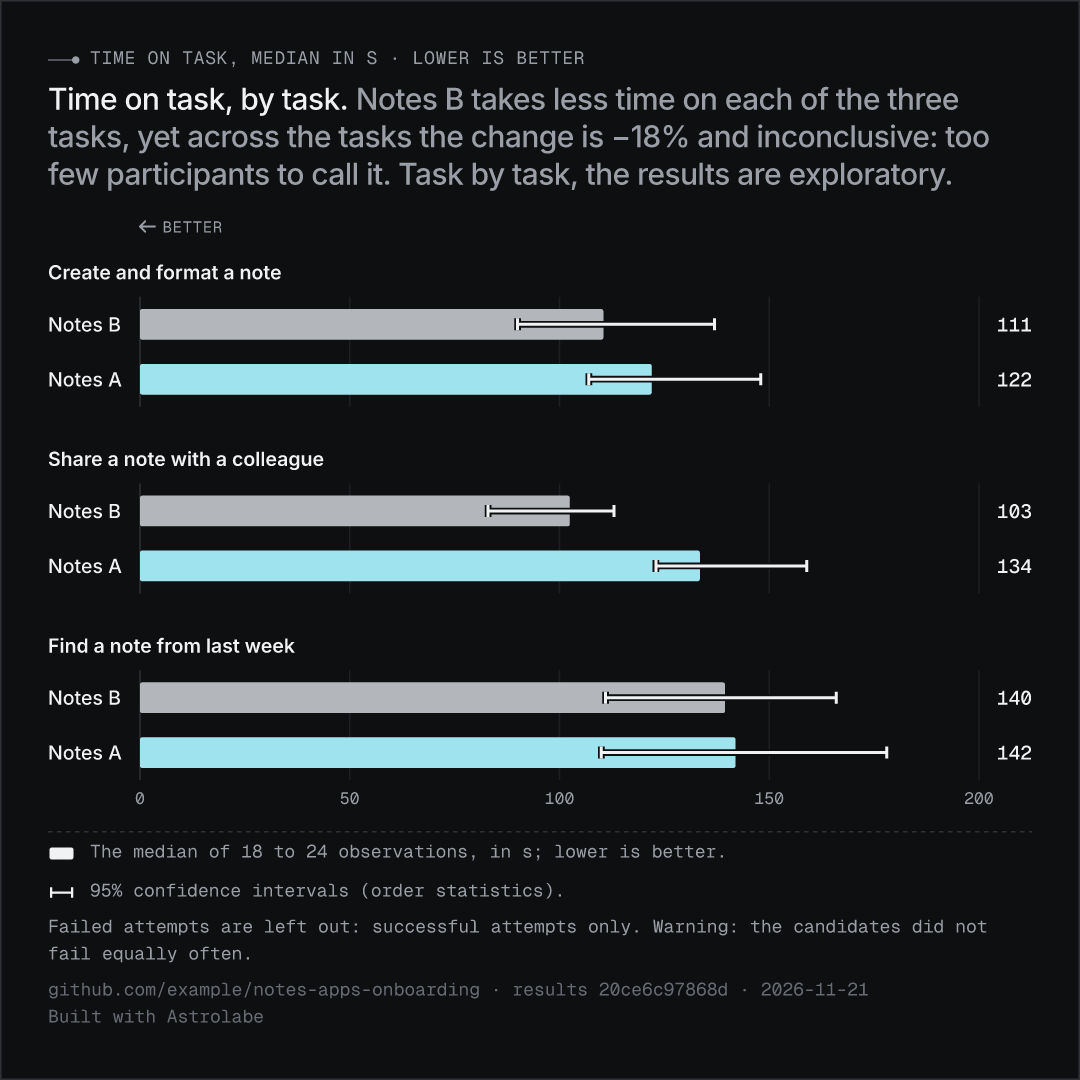
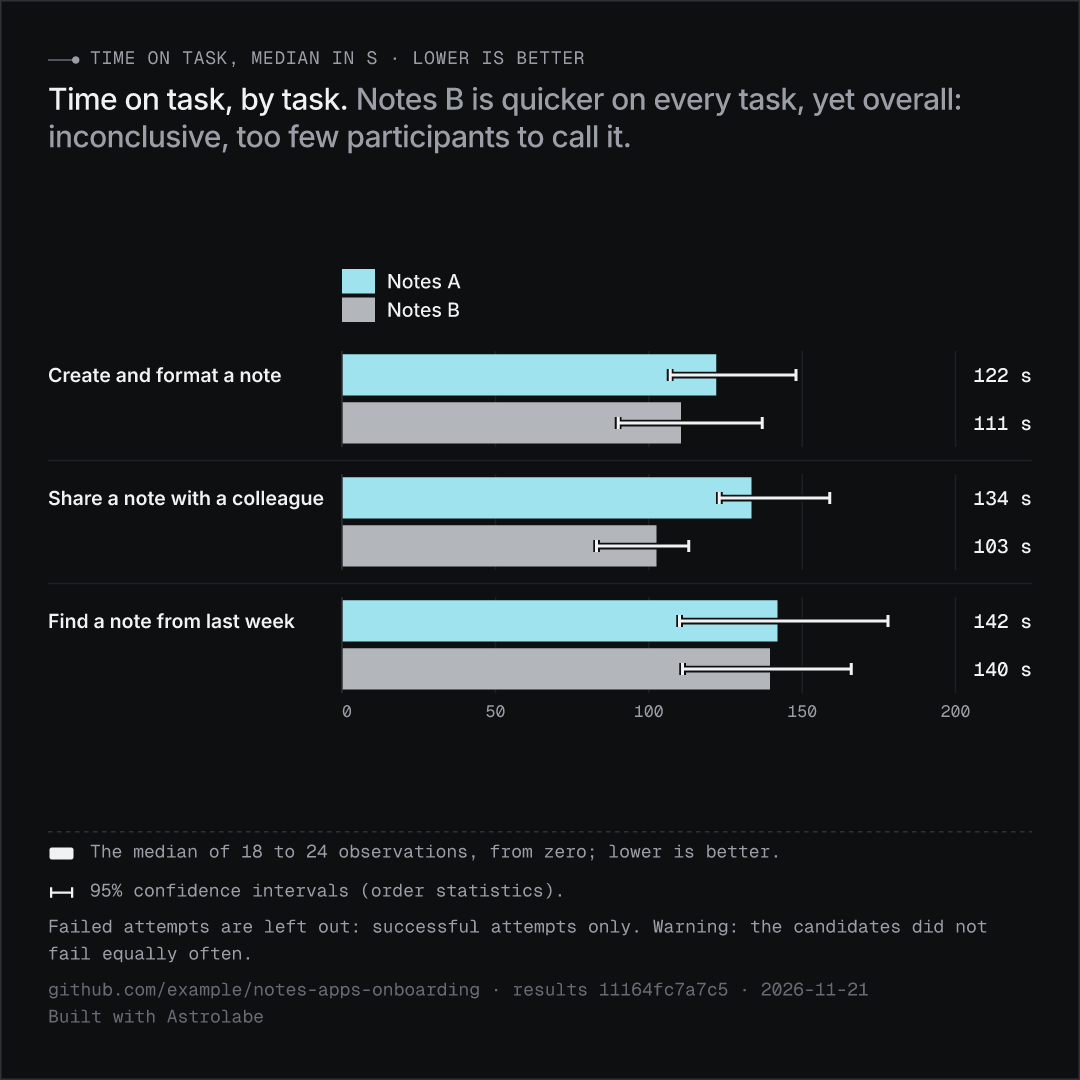
Make the effects table and summary keys read by part
The effects table now stacks one table per metric, showing only the parts each metric measured. Summary keys that differ only by part count now print once. Chart bars get a taller pitch, and the key stubs stay thin.

diff --git a/src/render/site/blocks.ts b/src/render/site/blocks.ts
@@ -1,5 +1,5 @@
 import type { RawFile } from "../../compute/raw-data.js";
-import type { Benchmark, Comparison } from "../../schema/benchmark.js";
+import type { Benchmark, Comparison, Metric, Results } from "../../schema/benchmark.js";
 import type { Block, ChartBlock, HeadlineBlock, SummaryBlock, TableBlock } from "../../schema/presentation.js";
 import type { Mode } from "../../themes/astrolabe.js";
 import { addsInformation, detailsOf, isFirmVerdict, measuredOf, pairOf } from "../card.js";
@@ -630,44 +630,54 @@ function effectsTableView(block: TableBlock, inputs: PageInputs, state: FilterSt
       ...nodes.flatMap((node) => compared.map((candidate) => Math.abs(comparisonOf(metricId, node, candidate.id)?.effect ?? 0))),
       Number.EPSILON,
     );
-  const several = block.metrics.length > 1;
-  const metricHeader = block.metrics.map((metricId) => {
+  const cellOf = (metric: Metric, node: string | undefined, candidate: Results["candidates"][number], largest: number) => {
+    const comparison = comparisonOf(metric.id, node, candidate.id);
+
+    if (!comparison) return `<td data-candidate="${escapeHtml(candidate.id)}">—</td>`;
+
+    const { effect, interval } = effectAndInterval(metric, comparison);
+    const share = (Math.abs(comparison.effect) / largest) * 50;
+    const start = comparison.effect < 0 ? 50 - share : 50;
+    const exploratory = comparison.role === "exploratory" ? " (exploratory)" : "";
+
+    return [
+      `<td class="effect-cell ${toneOf(comparison)}${isFirmVerdict(comparison) ? " firm" : ""}" data-candidate="${escapeHtml(candidate.id)}">`,
+      '<span class="cell-line">',
+      `<span class="cell-value">${escapeHtml(effect)}</span>`,
+      `<span class="effect-bar" aria-hidden="true"><i style="left: ${start.toFixed(1)}%; width: ${share.toFixed(1)}%"></i></span>`,
+      "</span>",
+      `<span class="cell-detail effect-verdict">${escapeHtml(plainVerdictOf(metric, comparison) + exploratory)}</span>`,
+      show.has("ci") && interval ? `<span class="cell-detail dim">${escapeHtml(interval)}</span>` : "",
+      "</td>",
+    ].join("");
+  };
+  const rowsLevel = effectRowsOf(block, lookup);
+  const levelName = rowsLevel ? capitalised(rowsLevel) : "";
+  const againstName = lookup.candidateName.get(vs);
+  // One table per metric, stacked as the values tables are: side by side, three metrics and two candidates would need
+  // six columns, and a metric measured on a few parts would fill the others with dashes.
+  const sections = block.metrics.flatMap((metricId) => {
     const metric = lookup.metricById.get(metricId)!;
+    const measuredNodes = nodes.filter((node) => compared.some((candidate) => comparisonOf(metricId, node, candidate.id)));
+    const comparedHere = compared.filter((candidate) => measuredNodes.some((node) => comparisonOf(metricId, node, candidate.id)));
 
-    return `<th scope="colgroup" colspan="${compared.length}">${escapeHtml(`${metric.label} · ${directionWords(metric.direction)}`)}</th>`;
-  });
-  const candidateHeader = block.metrics.flatMap(() =>
-    compared.map((candidate) => `<th scope="col" data-candidate="${escapeHtml(candidate.id)}">${escapeHtml(candidate.name)}</th>`),
-  );
-  const rows = nodes.map((node) => {
-    const cells = block.metrics.flatMap((metricId) => {
-      const metric = lookup.metricById.get(metricId)!;
-      const largest = largestOf(metricId);
+    if (measuredNodes.length === 0) return [];
 
-      return compared.map((candidate) => {
-        const comparison = comparisonOf(metricId, node, candidate.id);
+    const largest = largestOf(metricId);
+    const rows = measuredNodes.map(
+      (node) =>
+        `<tr><th scope="row">${node === undefined ? "All" : partNameHtml(inputs, node)}</th>${comparedHere.map((candidate) => cellOf(metric, node, candidate, largest)).join("")}</tr>`,
+    );
+    const subtitle = `change against ${againstName} · ${directionWords(metric.direction)}`;
 
-        if (!comparison) return `<td data-candidate="${escapeHtml(candidate.id)}">—</td>`;
-
-        const { effect, interval } = effectAndInterval(metric, comparison);
-        const share = (Math.abs(comparison.effect) / largest) * 50;
-        const start = comparison.effect < 0 ? 50 - share : 50;
-        const exploratory = comparison.role === "exploratory" ? " (exploratory)" : "";
-
-        return [
-          `<td class="effect-cell ${toneOf(comparison)}${isFirmVerdict(comparison) ? " firm" : ""}" data-candidate="${escapeHtml(candidate.id)}">`,
-          '<span class="cell-line">',
-          `<span class="cell-value">${escapeHtml(effect)}</span>`,
-          `<span class="effect-bar" aria-hidden="true"><i style="left: ${start.toFixed(1)}%; width: ${share.toFixed(1)}%"></i></span>`,
-          "</span>",
-          `<span class="cell-detail effect-verdict">${escapeHtml(plainVerdictOf(metric, comparison) + exploratory)}</span>`,
-          show.has("ci") && interval ? `<span class="cell-detail dim">${escapeHtml(interval)}</span>` : "",
-          "</td>",
-        ].join("");
-      });
-    });
-
-    return `<tr><th scope="row">${node === undefined ? "All" : partNameHtml(inputs, node)}</th>${cells.join("")}</tr>`;
+    return [
+      `<h3 class="table-heading">${escapeHtml(metric.label)} <span class="dim">· ${escapeHtml(subtitle)}</span></h3>`,
+      '<div class="table-scroll"><table class="value-table effects-table">',
+      `<caption class="visually-hidden">${escapeHtml(`${metric.label} · ${subtitle}`)}</caption>`,
+      `<thead><tr><th scope="col">${escapeHtml(levelName)}</th>${comparedHere.map((candidate) => `<th scope="col" data-candidate="${escapeHtml(candidate.id)}">${escapeHtml(candidate.name)}</th>`).join("")}</tr></thead>`,
+      `<tbody>\n${rows.join("\n")}\n</tbody>`,
+      "</table></div>",
+    ];
   });
   const shown = nodes.flatMap((node) =>
     block.metrics.flatMap((metricId) => compared.flatMap((candidate) => comparisonOf(metricId, node, candidate.id) ?? [])),
@@ -682,15 +692,8 @@ function effectsTableView(block: TableBlock, inputs: PageInputs, state: FilterSt
       : "",
     ` and the smallest difference that matters. Bars are drawn from zero, on one scale per metric.`,
   ].join("");
-  const levelName = block.rows ? block.rows.charAt(0).toUpperCase() + block.rows.slice(1) : "";
 
-  return [
-    '<div class="table-scroll"><table class="value-table effects-table">',
-    `<thead>${several ? `<tr><td></td>${metricHeader.join("")}</tr>` : ""}<tr><th scope="col">${escapeHtml(levelName)}</th>${candidateHeader.join("")}</tr></thead>`,
-    `<tbody>\n${rows.join("\n")}\n</tbody>`,
-    "</table></div>",
-    `<p class="table-note">${escapeHtml(note)}</p>`,
-  ].join("\n");
+  return [...sections, `<p class="table-note">${escapeHtml(note)}</p>`].join("\n");
 }
 
 function tableHtml(block: TableBlock, inputs: PageInputs, number: string): string {

diff --git a/src/render/chart/results-plot.ts b/src/render/chart/results-plot.ts
@@ -58,7 +58,7 @@ export interface ResultsPlot {
   key: { candidate: string; name: string; colour: string }[];
 }
 
-const BAR_PITCH = { smallest: 15, usual: 19, largest: 22 };
+const BAR_PITCH = { smallest: 15, usual: 19, largest: 32 };
 /** The bar's share of its pitch: the rest is the hairline of background that keeps two glued bars apart. */
 const BAR_SHARE = 0.86;
 const GROUP_GAP = 18;
@@ -74,8 +74,9 @@ const LARGEST_NAME_SHARE = 0.32;
 /** A name that needs more lines than this goes above its block, with every other name. */
 const NAME_LINES_BESIDE = 2;
 
+const barCountOf = (plot: ResultsPlot) => plot.groups.reduce((count, group) => count + group.bars.length, 0);
 /** Every row the plot draws at the pitch of a bar: the key's, one per candidate, then the bars. */
-const rowCountOf = (plot: ResultsPlot) => plot.key.length + plot.groups.reduce((count, group) => count + group.bars.length, 0);
+const rowCountOf = (plot: ResultsPlot) => plot.key.length + barCountOf(plot);
 
 function layoutOf(plot: ResultsPlot, text: SvgTextRenderer, width: number) {
   const named = plot.groups.some((group) => group.name);
@@ -123,7 +124,10 @@ function layoutOf(plot: ResultsPlot, text: SvgTextRenderer, width: number) {
 function drawResults(plot: ResultsPlot, text: SvgTextRenderer, colours: Colours, area: PlotArea): DrawnPlot {
   const { x, width } = area;
   const layout = layoutOf(plot, text, width);
-  const pitch = (area.height - layout.fixedHeight) / rowCountOf(plot);
+  const room = area.height - layout.fixedHeight;
+  // An image with room to spare thickens the bars, not the key, whose stubs only name the colours.
+  const keyPitch = Math.min(room / rowCountOf(plot), BAR_PITCH.usual);
+  const pitch = (room - plot.key.length * keyPitch) / barCountOf(plot);
   const barHeight = pitch * BAR_SHARE;
   const plotLeft = x + (layout.namesBeside ? layout.nameWidth + COLUMN_GAP : 0);
   const valueRight = x + width - (layout.noteWidth > 0 ? layout.noteWidth + NOTE_GAP : 0);
@@ -138,20 +142,21 @@ function drawResults(plot: ResultsPlot, text: SvgTextRenderer, colours: Colours,
   // The key is a block like the parts': each candidate's stub of bar in the place its bar has on every part, so the
   // order names the bars as well as the colour does.
   plot.key.forEach((entry, index) => {
-    const top = area.y + index * pitch;
+    const top = area.y + index * keyPitch;
+    const swatchHeight = keyPitch * BAR_SHARE;
 
     marks.push(
-      `<g data-candidate="${escapeXml(entry.candidate)}"><rect x="${round(plotLeft)}" y="${round(top + (pitch - barHeight) / 2)}" width="${KEY_SWATCH}" height="${round(barHeight)}" fill="${entry.colour}"/>${text.draw(
+      `<g data-candidate="${escapeXml(entry.candidate)}"><rect x="${round(plotLeft)}" y="${round(top + (keyPitch - swatchHeight) / 2)}" width="${KEY_SWATCH}" height="${round(swatchHeight)}" fill="${entry.colour}"/>${text.draw(
         entry.name,
         plotLeft + KEY_SWATCH + 8,
-        middleOf(top, pitch, PLOT_STYLE.label.size),
+        middleOf(top, keyPitch, PLOT_STYLE.label.size),
         { ...PLOT_STYLE.label, fill: colours.ink },
       )}</g>`,
     );
     textLines.push(entry.name);
   });
 
-  let cursorY = area.y + plot.key.length * pitch + GROUP_GAP;
+  let cursorY = area.y + plot.key.length * keyPitch + GROUP_GAP;
 
   plot.groups.forEach((group, groupIndex) => {
     if (groupIndex > 0) {
@@ -293,7 +298,7 @@ export function resultsPlot(plot: ResultsPlot): Plot {
       return {
         smallest: fixedHeight + rows * BAR_PITCH.smallest,
         usual: fixedHeight + rows * BAR_PITCH.usual,
-        largest: fixedHeight + rows * BAR_PITCH.largest,
+        largest: fixedHeight + plot.key.length * BAR_PITCH.usual + barCountOf(plot) * BAR_PITCH.largest,
       };
     },
     draw: (text, colours, area) => drawResults(plot, text, colours, area),

diff --git a/tests/site.test.ts b/tests/site.test.ts
@@ -688,6 +688,43 @@ describe("the site", () => {
     ]);
   });
 
+  it("stacks a table of effects on several metrics as one table per metric, each with only the parts it measured", () => {
+    const scripts = scriptsBenchmarkOf(3);
+    const results = scripts.results;
+    const onFirstScript = <Entry extends { metric: string; node?: string }>(entries: Entry[]) =>
+      entries
+        .filter((entry) => entry.metric === "wall_time" && entry.node === "script-1")
+        .map((entry) => ({ ...entry, metric: "start_time" }));
+    const withStartTime = {
+      ...scripts,
+      results: {
+        ...results,
+        metrics: [...results.metrics, { ...results.metrics[0], id: "start_time", label: "Start time" }],
+        values: [...results.values!, ...onFirstScript(results.values!)],
+        comparisons: [
+          ...results.comparisons!,
+          ...onFirstScript(results.comparisons!).map((comparison) => ({ ...comparison, id: `${comparison.id}-start` })),
+        ],
+      },
+      blocks: [
+        { id: "table-effects", type: "table", metrics: ["wall_time", "start_time"], rows: "script", cells: "effects", show: ["ci"] },
+      ],
+    } as Benchmark;
+    const folder = mkdtempSync(join(tmpdir(), "astrolabe-site-"));
+
+    buildOutputs(withStartTime, ["site"], folder, context, { rawFiles: {} });
+    const html = readFileSync(join(folder, "site", "index.html"), "utf8");
+    const tables = [...html.matchAll(/<h3 class="table-heading">([^<]*)<.*?<\/table>/gs)].map(([table, heading]) => [
+      heading.trim(),
+      [...table.matchAll(/<th scope="row">([^<]*)<\/th>/g)].map((match) => match[1]),
+    ]);
+
+    expect(tables).toEqual([
+      ["Wall time", ["Script 1", "Script 2", "Script 3"]],
+      ["Start time", ["Script 1"]],
+    ]);
+  });
+
   it("names the script of each claim when scripts sit side by side at the top of the structure", () => {
     const plan = planOf({
       structure: {

diff --git a/tests/card.test.ts b/tests/card.test.ts
@@ -242,6 +242,26 @@ describe("reading a card at a glance", () => {
     expect(card.altText).toBe("Model A compared with Model B, accuracy on 3 tasks: better on 1, unclear on 2.");
   });
 
+  it("writes the key of its summaries once when they differ only by how many parts they count", () => {
+    const suite = withTasksAsPrimary(loadBenchmark("support-assistant-eval"));
+    const twoTasks = new Set(["math_word", "policy_qa"]);
+
+    suite.results.comparisons = suite.results.comparisons!.map((comparison) =>
+      comparison.metric === "cost_per_item"
+        ? { ...comparison, role: twoTasks.has(comparison.node ?? "") ? "primary" : "exploratory" }
+        : comparison,
+    );
+    suite.blocks = [
+      { id: "summary-accuracy", type: "summary", metric: "accuracy", chart: "stacked-bar" },
+      { id: "summary-cost", type: "summary", metric: "cost_per_item", chart: "stacked-bar" },
+      ...suite.blocks!,
+    ];
+    const footer = renderCard(suite, cardContentOf(suite, ["summary-accuracy", "summary-cost"]), "light", context).textLines.join(" ");
+
+    expect(footer).toContain("Each bar: the tasks, by their result against Model B.");
+    expect(footer).not.toMatch(/Each bar: the \d tasks/);
+  });
+
   it("draws the summary a card names as its block asks: stacked from the left, or grouped by result", () => {
     const suite = withTasksAsPrimary(loadBenchmark("support-assistant-eval"));
 

diff --git a/src/render/card.ts b/src/render/card.ts
@@ -1159,7 +1159,7 @@ export function renderCard(benchmark: Benchmark, content: CardContent, mode: Car
   const intervals = `${sharedLevel ? `${sharedLevel} ` : ""}${isSingle ? "interval" : "intervals"}`;
   const readingOfCells =
     content.charts && content.charts.length > 0
-      ? [...new Set(content.charts.map((chart) => summaryKeyOf(lookup, chart))), `Verdicts from ${intervals}.`]
+      ? [...summaryKeysOf(lookup, content.charts), `Verdicts from ${intervals}.`]
       : [`${isSingle ? "Effect" : "Effects"} against ${lookup.candidateName.get(results.baseline)}, with ${intervals}.`];
   const legendSentences = [
     ...readingOfCells,
@@ -1218,4 +1218,12 @@ export function renderCard(benchmark: Benchmark, content: CardContent, mode: Car
   ].join("");
 
   return { svg, altText, textLines, charactersWithoutGlyph: text.charactersWithoutGlyph() };
+}
+
+/** The keys of the summaries on a card, once each: one uncounted key when they differ only by how many parts they count. */
+function summaryKeysOf(lookup: Lookup, charts: SummaryChart[]): string[] {
+  const counted = [...new Set(charts.map((chart) => summaryKeyOf(lookup, chart)))];
+  const uncounted = [...new Set(charts.map((chart) => summaryKeyOf(lookup, chart, { counted: false })))];
+
+  return counted.length > 1 && uncounted.length === 1 ? uncounted : counted;
 }

diff --git a/src/render/summary.ts b/src/render/summary.ts
@@ -503,9 +503,13 @@ export function summaryTitleOf(lookup: Lookup, chart: SummaryChart): string {
   return wordings.find((wording) => wording.length <= LONGEST_SUMMARY_TITLE) ?? wordings[wordings.length - 1];
 }
 
-/** What a bar of a summary chart stands for, and on a diverging chart which side is which. */
-export function summaryKeyOf(lookup: Lookup, chart: SummaryChart): string {
-  const parts = partsOf(lookup, chart.summaries[0]);
+/**
+ * What a bar of a summary chart stands for, and on a diverging chart which side is which. Uncounted ("the workloads"
+ * rather than "the 12 workloads"), one key can serve summaries that count different numbers of parts.
+ */
+export function summaryKeyOf(lookup: Lookup, chart: SummaryChart, { counted = true } = {}): string {
+  const { nameFor } = countedPartsOf(lookup, chart.summaries[0]);
+  const parts = counted ? partsOf(lookup, chart.summaries[0]) : nameFor(2);
   const baseline = lookup.candidateName.get(lookup.results.baseline);
   const words = directionWordsOf(lookup.metricById.get(chart.metric)!);
 

diff --git a/src/render/site/page-style.ts b/src/render/site/page-style.ts
@@ -261,8 +261,8 @@ td:not(.text) { white-space: nowrap; }
 .value-table .cell-detail { margin-top: 4px; white-space: normal; min-width: 160px; }
 .value-table thead th[data-candidate]::before { content: ""; display: inline-block; width: 8px; height: 8px; margin-right: 8px; border-radius: 50%; background: var(--series, var(--ink)); }
 .cell-line { display: flex; align-items: center; gap: 10px; }
-.effects-table thead td { border: 0; }
-.effects-table thead th[scope="colgroup"] { font-family: ${MONO}; font-size: 11px; letter-spacing: 0.04em; text-transform: uppercase; font-weight: 400; color: var(--secondary); }
+.effects-table { table-layout: fixed; }
+.effects-table thead th:first-child { width: 36%; }
 .effects-table .effect-cell { color: var(--secondary); }
 .effects-table .effect-cell.good { color: var(--good); }
 .effects-table .effect-cell.bad { color: var(--bad); }

diff --git a/plugin/skills/astrolabe-benchmark/visualization/style.md b/plugin/skills/astrolabe-benchmark/visualization/style.md
@@ -96,7 +96,7 @@ A reader remembers the title more than the chart, so a title states the finding,
 | `vs` | On a table of effects: the candidate the changes are against, the baseline by default (the plan must compare those pairs) |
 | `show` | What sits under each value: `n`, `ci`, `failures`, and `evidence` (a link to the raw file). `n` always, `ci` when values have intervals, `failures` when any attempt failed: `validate` refuses a table without them. A table of effects needs only `ci` |
 
-A **table of effects** is a section of its own, after the results, when the question asks how much changed against one candidate (the version in use today, or the other of the two that decide, with `vs`). It is the recommended way to show a long breakdown of changes: one row per node, one column per compared candidate and metric, so thirty files compared on two metrics fit in thirty rows. Past about 8 rows it reads faster than an `effect` chart (charts.md). Without a title, a table is headed by what it holds ("Build time and identical pages compared with markly, size by size"), so two tables on the same metrics never share a heading.
+A **table of effects** is a section of its own, after the results, when the question asks how much changed against one candidate (the version in use today, or the other of the two that decide, with `vs`). It is the recommended way to show a long breakdown of changes: one row per node and one column per compared candidate, the metrics stacked as one table each (a metric measured on a few nodes shows only those rows), so thirty files compared on two metrics still fit the page's width. Past about 8 rows it reads faster than an `effect` chart (charts.md). Without a title, a table is headed by what it holds ("Build time and identical pages compared with markly, size by size"), so two tables on the same metrics never share a heading.
 
 ```json
 {
